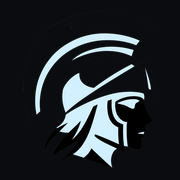
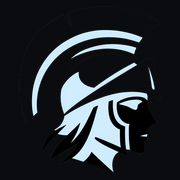
polish

diff --git a/src/components/HeroSection.tsx b/src/components/HeroSection.tsx
@@ -1,6 +1,6 @@
 import { motion } from "framer-motion";
 import { Button } from "@/components/ui/button";
-import { ArrowRight } from "lucide-react";
+import { ArrowRight, Star } from "lucide-react";
 import { scrollToSectionById } from "@/lib/scroll";
 
 /* ── Fluctuating Neural Network ── */
@@ -36,7 +36,7 @@ const NeuralNetwork = () => {
       transition={{ duration: 1, delay: 0.5 }}
       className="flex h-full w-full items-center justify-center will-animate [perspective:1000px]"
     >
-      <svg viewBox="0 0 470 380" className="w-full h-full [backface-visibility:hidden]" fill="none" preserveAspectRatio="xMidYMid meet">
+      <svg viewBox="0 0 470 380" className="w-full h-full [backface-visibility:hidden]" fill="none" preserveAspectRatio="xMidYMid slice">
         {/* Edges */}
         {edges.map((edge, i) => (
           <motion.line
@@ -102,7 +102,7 @@ const HeroSection = () => {
   return (
     <section className="relative z-10 flex min-h-[86vh] items-center overflow-hidden border-b border-white/[0.06] pt-24 pb-12 md:pb-20 bg-[#0a0c10]">
       <div
-        className="pointer-events-none absolute left-1/2 top-8 z-0 h-[150vh] w-[135vw] -translate-x-1/2 opacity-[0.4]"
+        className="pointer-events-none absolute left-1/2 top-0 z-0 h-[125vh] w-[185vw] -translate-x-1/2 opacity-[0.45]"
         aria-hidden="true"
       >
         <NeuralNetwork />
@@ -176,6 +176,29 @@ const HeroSection = () => {
               See What We Deliver
             </a>
           </Button>
+        </motion.div>
+
+        {/* Social proof — concrete trust signals, surfaced above the fold */}
+        <motion.div
+          initial={{ opacity: 0, y: 16 }}
+          animate={{ opacity: 1, y: 0 }}
+          transition={{ duration: 0.6, delay: 0.78, ease: [0.21, 0.47, 0.32, 0.98] }}
+          className="mt-10 flex flex-wrap items-center gap-x-5 gap-y-3 border-t border-white/[0.06] pt-6 text-xs font-medium text-slate-300/85"
+        >
+          <span className="flex items-center gap-2">
+            <span className="h-1.5 w-1.5 rounded-full bg-primary" />
+            Live SaaS in production
+          </span>
+          <span className="hidden h-3.5 w-px bg-white/15 sm:block" />
+          <span className="flex items-center gap-1.5">
+            <Star size={13} className="fill-primary text-primary" />
+            5.0 on the App Store
+          </span>
+          <span className="hidden h-3.5 w-px bg-white/15 sm:block" />
+          <span className="flex items-center gap-2">
+            <span className="h-1.5 w-1.5 rounded-full bg-primary" />
+            Engineered on AWS
+          </span>
         </motion.div>
       </div>
     </section>

diff --git a/src/components/CtaSection.tsx b/src/components/CtaSection.tsx
@@ -108,6 +108,16 @@ const CtaSection = () => {
             </motion.div>
           ) : (
             <form onSubmit={handleSubmit} className="space-y-5">
+              {/* Honeypot: hidden from people, but bots fill it in — Formspree silently
+                  discards any submission where this field is non-empty. */}
+              <input
+                type="text"
+                name="_gotcha"
+                tabIndex={-1}
+                autoComplete="off"
+                aria-hidden="true"
+                className="hidden"
+              />
               <div className="grid gap-5 sm:grid-cols-2">
                 <div>
                   <label htmlFor="name" className="mb-1.5 block text-sm font-medium text-foreground">

diff --git a/index.html b/index.html
@@ -3,8 +3,8 @@
   <head>
     <meta charset="UTF-8" />
     <meta name="viewport" content="width=device-width, initial-scale=1.0" />
-    <link rel="icon" href="/favicon.png" type="image/png" />
-    <link rel="apple-touch-icon" href="/apple-touch-icon.png" />
+    <link rel="icon" href="/favicon.png?v=3" type="image/png" />
+    <link rel="apple-touch-icon" href="/apple-touch-icon.png?v=3" />
     <link rel="canonical" href="https://athenadatalabs.com/" />
 
     <title>Athena Data Labs | SaaS Development & Data Science</title>

diff --git a/src/components/FounderSection.tsx b/src/components/FounderSection.tsx
@@ -25,7 +25,7 @@ const career = [
     title: "MyBudgetNerd — Athena Data Labs",
     role: "Founder & Technical Lead · SaaS · iOS (App Store)",
     description:
-      "Built and shipped MyBudgetNerd, a subscription SaaS personal-finance product live on the App Store with paying customers. Automated PDF statement parsing, machine-learning transaction categorization, forecasting, and anomaly detection — deployed on AWS (Amplify + Elastic Beanstalk) with privacy-first, in-memory processing.",
+      "Built and shipped MyBudgetNerd, a subscription SaaS personal-finance product live on the App Store with active subscribers. Automated PDF statement parsing, machine-learning transaction categorization, forecasting, and anomaly detection — deployed on AWS (Amplify + Elastic Beanstalk) with privacy-first, in-memory processing.",
   },
   {
     title: "Wayne State University",